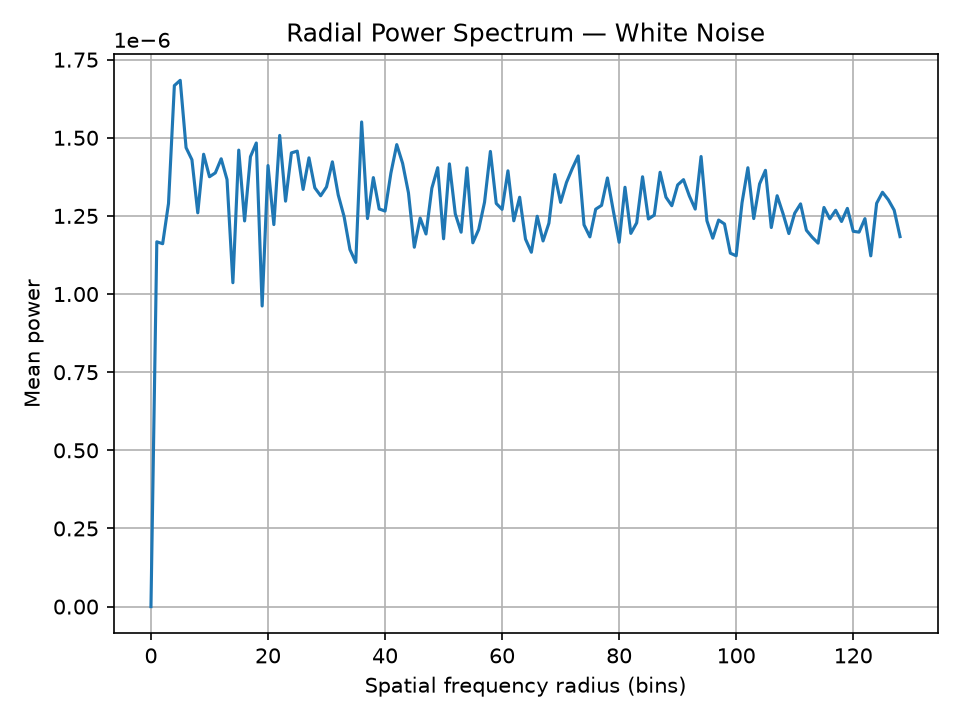
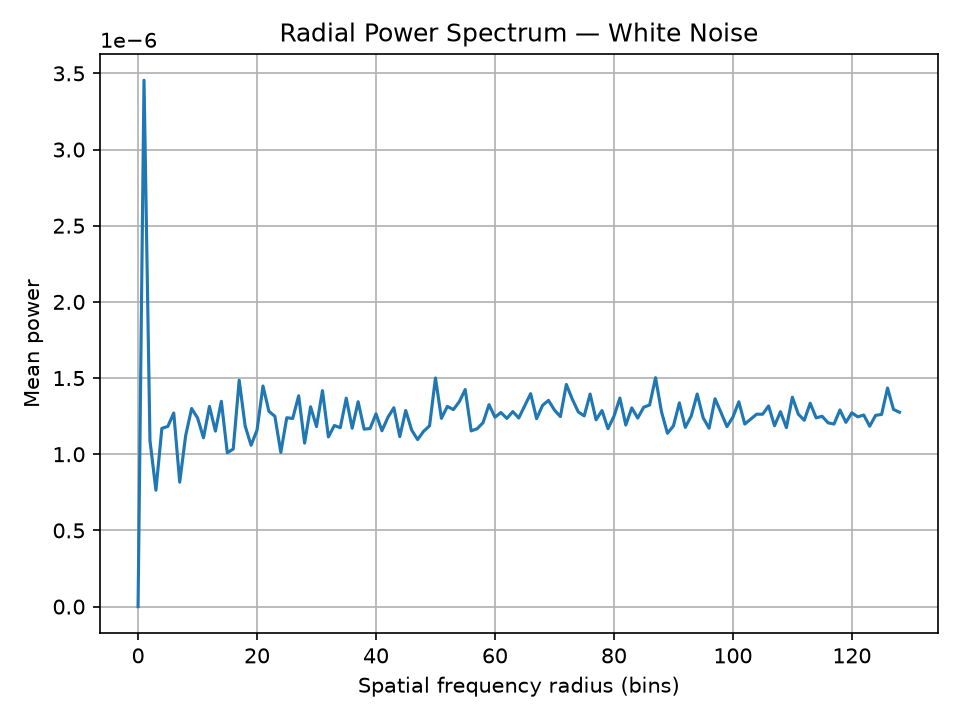
added gaussian density field and tests for the same

diff --git a/src/analysis/density.hpp b/src/analysis/density.hpp
@@ -1,0 +1,96 @@
+#pragma once
+
+#include "analysis/spatial.hpp"
+#include "core/image.hpp"
+
+#include <cmath>
+#include <cstddef>
+#include <stdexcept>
+#include <vector>
+
+namespace analysis
+{
+
+    inline Image2D<float> gaussian_density(
+        const Image2D<float> &mask,
+        float sigma,
+        int radius)
+    {
+        if (!std::isfinite(sigma) || sigma <= 0.0f)
+        {
+            throw std::invalid_argument("Sigma must be positive and finite");
+        }
+
+        if (radius < 0)
+        {
+            throw std::invalid_argument("Radius must be non-negative");
+        }
+
+        const std::size_t width = mask.width();
+        const std::size_t height = mask.height();
+
+        // Build a truncated, normalized 2D Gaussian kernel.
+        const int side = 2 * radius + 1;
+        std::vector<float> kernel(
+            static_cast<std::size_t>(side) * side);
+
+        double weight_sum = 0.0;
+
+        for (int dy = -radius; dy <= radius; ++dy)
+        {
+            for (int dx = -radius; dx <= radius; ++dx)
+            {
+                const double distance_squared =
+                    static_cast<double>(dx) * dx +
+                    static_cast<double>(dy) * dy;
+
+                const double weight = std::exp(
+                    -distance_squared /
+                    (2.0 * sigma * sigma));
+
+                const std::size_t index =
+                    static_cast<std::size_t>(dy + radius) * side + static_cast<std::size_t>(dx + radius);
+
+                kernel[index] = static_cast<float>(weight);
+                weight_sum += weight;
+            }
+        }
+
+        for (float &weight : kernel)
+        {
+            weight = static_cast<float>(weight / weight_sum);
+        }
+
+        // Convolve the mask with the kernel using periodic boundaries.
+        Image2D<float> density(width, height, 0.0f);
+
+        for (std::size_t y = 0; y < height; ++y)
+        {
+            for (std::size_t x = 0; x < width; ++x)
+            {
+                double value = 0.0;
+
+                for (int dy = -radius; dy <= radius; ++dy)
+                {
+                    for (int dx = -radius; dx <= radius; ++dx)
+                    {
+                        const std::size_t sx =
+                            wrap_coordinate(x, dx, width);
+                        const std::size_t sy =
+                            wrap_coordinate(y, dy, height);
+
+                        const std::size_t index =
+                            static_cast<std::size_t>(dy + radius) * side + static_cast<std::size_t>(dx + radius);
+
+                        value += mask.at(sx, sy) * kernel[index];
+                    }
+                }
+
+                density.at(x, y) = static_cast<float>(value);
+            }
+        }
+
+        return density;
+    }
+
+} // namespace analysis

diff --git a/tests/density_tests.cpp b/tests/density_tests.cpp
@@ -1,0 +1,30 @@
+#include "analysis/density.hpp"
+
+#include <cassert>
+#include <cmath>
+#include <iostream>
+
+int main()
+{
+    // A 32x32 mask with exactly one occupied pixel.
+    Image2D<float> mask(32, 32, 0.0f);
+    mask.at(16, 16) = 1.0f;
+
+    const auto density =
+        analysis::gaussian_density(mask, 2.0f, 6);
+
+    // The density should be strongest at the occupied pixel.
+    assert(density.at(16, 16) > density.at(17, 16));
+    assert(density.at(17, 16) > density.at(19, 16));
+    assert(density.at(19, 16) > density.at(22, 16));
+
+    // Symmetry: equally distant pixels should have equal density.
+    assert(std::abs(
+               density.at(15, 16) - density.at(17, 16)) < 1e-6f);
+
+    // The density should be positive near the point.
+    assert(density.at(16, 16) > 0.0f);
+
+    std::cout << "Density tests passed.\n";
+    return 0;
+}
